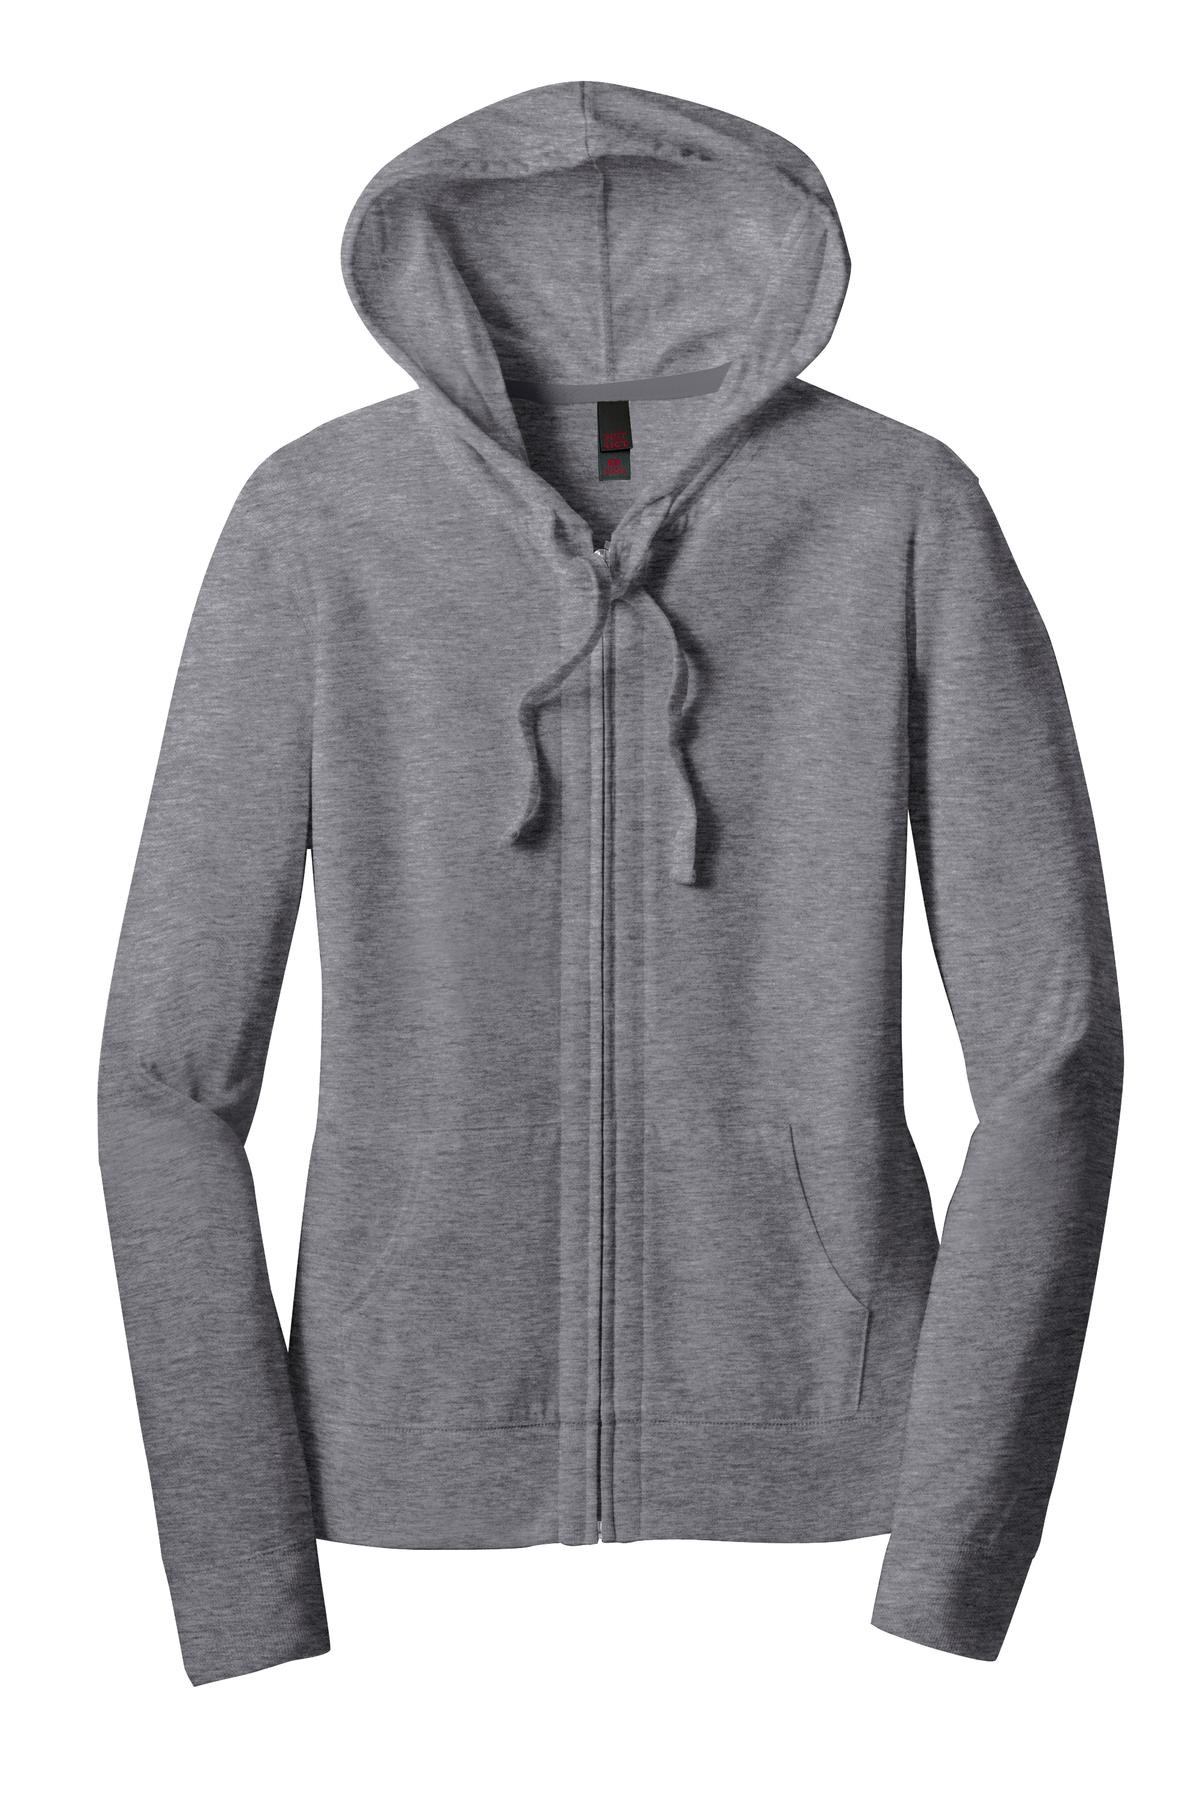
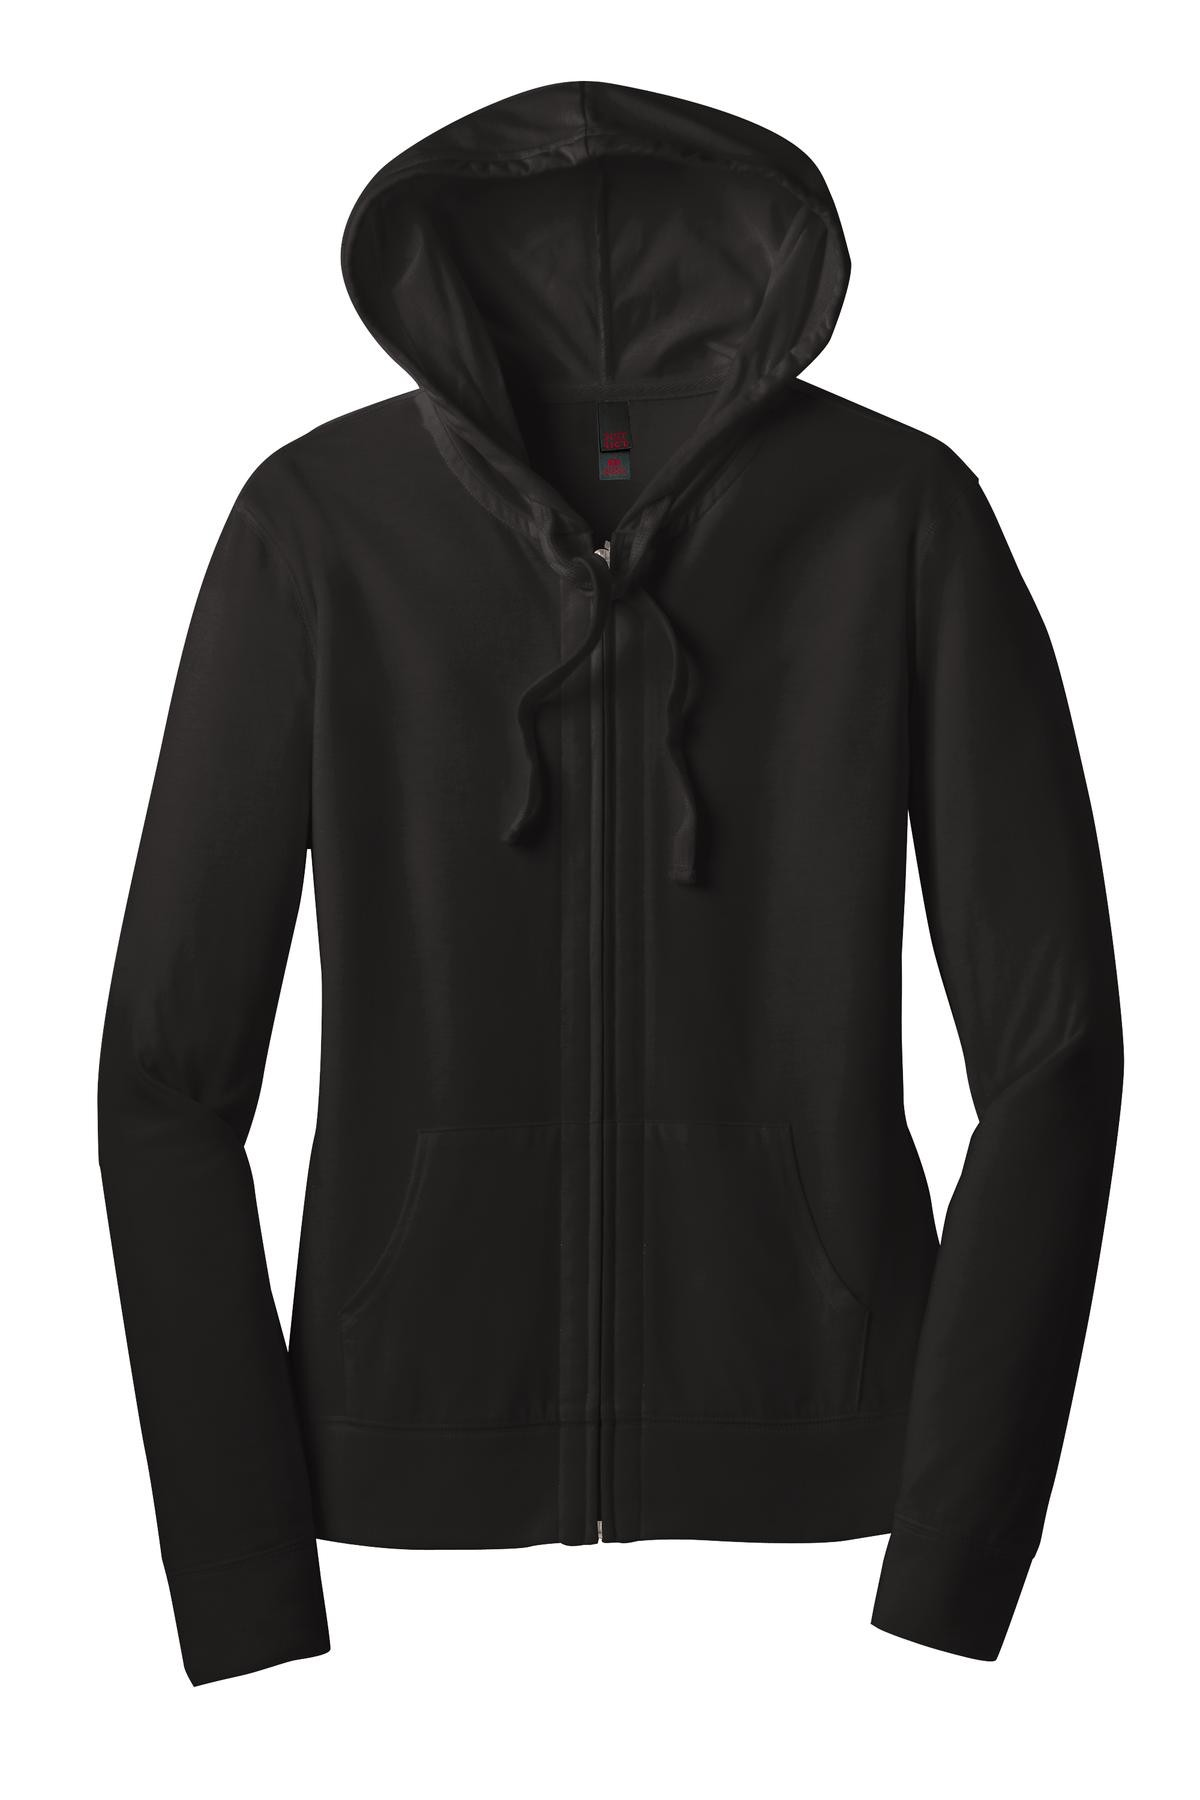
Featured photos: greys and blacks count as good neutrals (full-spectrum mix); re-picked today's products

diff --git a/bulk_add.py b/bulk_add.py
@@ -232,8 +232,8 @@ def pick_featured(product_id, products=None, quiet=False):
         f = family(hx)
         return (3 * near[f]                                   # don't repeat the cards next to it
                 + 4 * used[f] / total                         # keep the whole catalog varied
-                + (0.6 if f in BLAND else 0)                  # white/black/grey: fine, not first choice
-                - 2 * appeal(hx, c.get("name")))              # softer mid-tones over neons
+                + (0.4 if f == "white" else 0)                # white: fine, not first choice
+                - 2 * (0.62 if f in ("black", "grey") else appeal(hx, c.get("name"))))   # greys/blacks count as nice neutrals
     best = min(usable, key=cost)
     src, dst = HERE / best["front"], HERE / "catalog_images" / product_id / "featured_front.jpg"
     if src.suffix.lower() == ".jpg":
